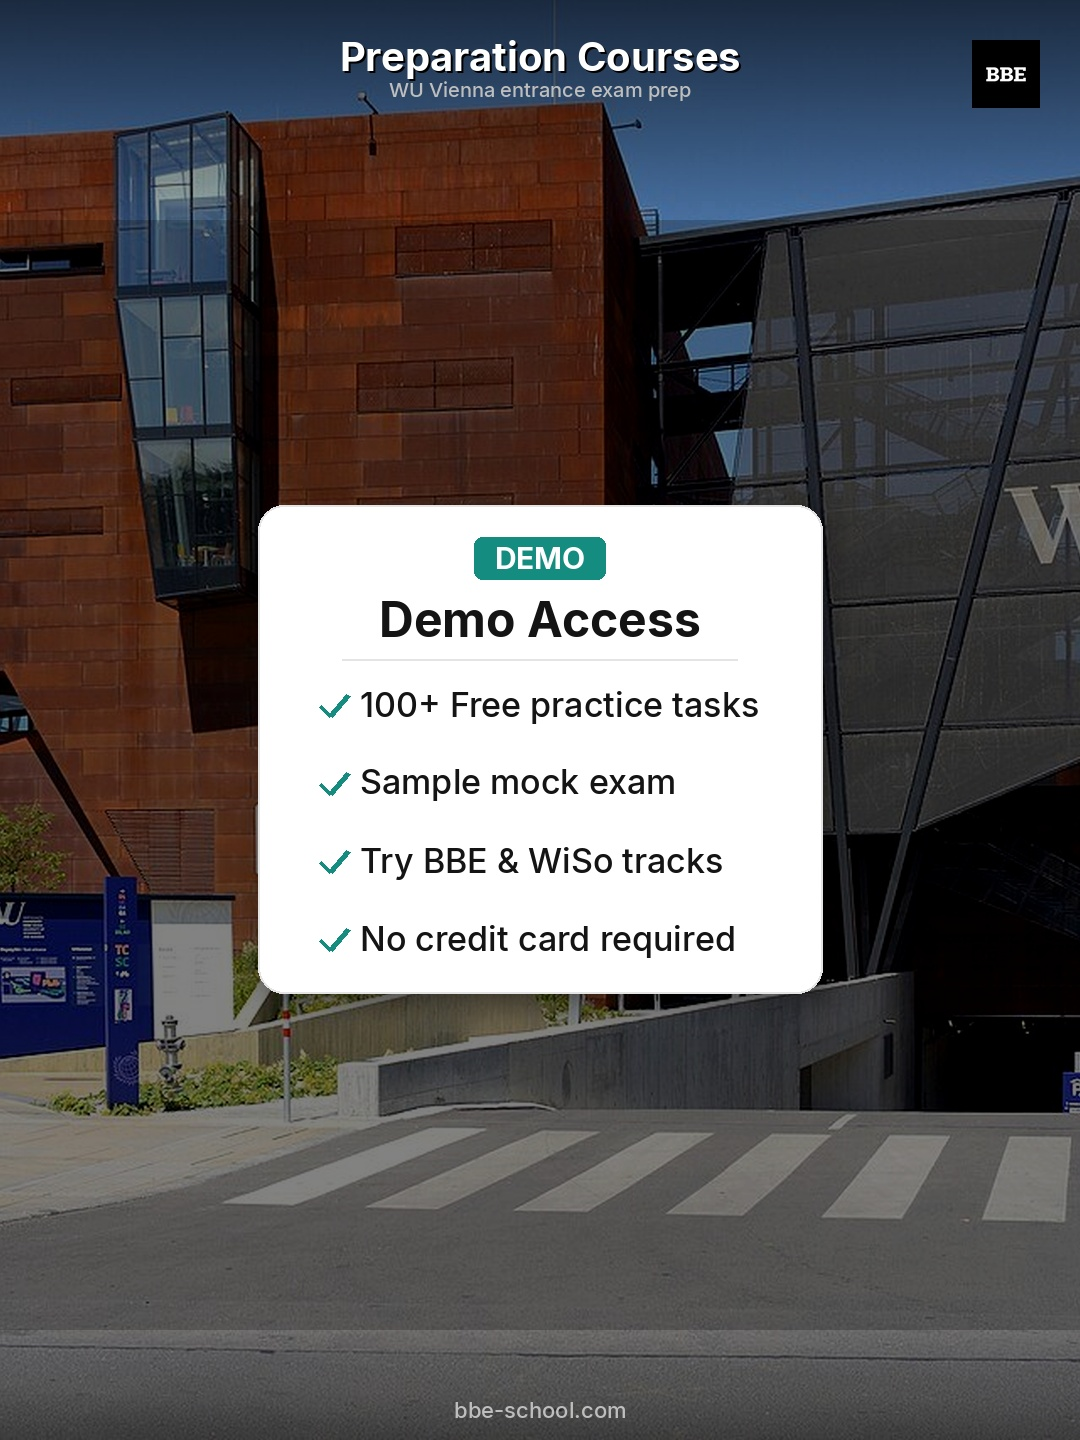
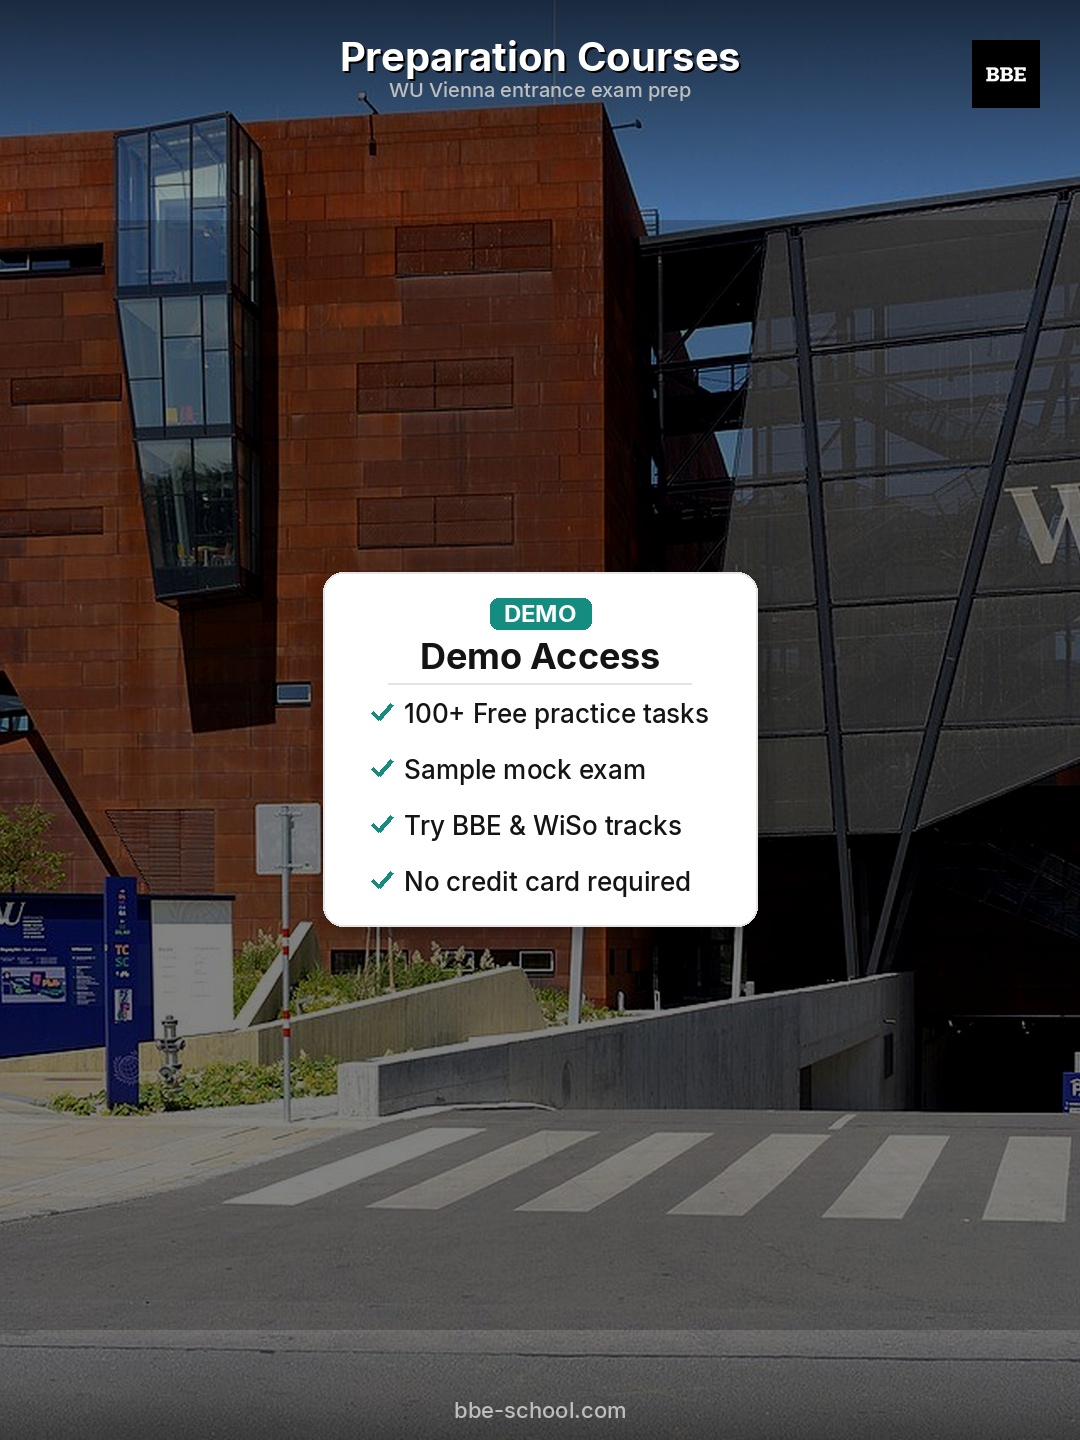
Make white cards much smaller on Instagram pins.
Cap card size and tighten type so the campus photo dominates each 3:4 tile.

Changed region(s): [[0.2139, 0.3438, 0.7639, 0.7188]]

diff --git a/scripts/build_ig_banner_v2.py b/scripts/build_ig_banner_v2.py
@@ -36,14 +36,17 @@ W = TILE * 3
 assert TILE * 4 == H * 3
 
 # Small card — campus dominates the frame
-SIDE = 160
-PAD_X = 36
-PAD_Y = 32
+SIDE = 200
+PAD_X = 28
+PAD_Y = 26
 HEADER = 130
 FOOTER = 72
 LOGO = 68
 # Equal inset from the top-right corner of each tile
 LOGO_INSET = 40
+# Hard cap so white never eats the photo
+MAX_CARD_W = 440
+MAX_CARD_H = 380
 
 ORANGE = (234, 112, 36)
 BLUE = (0, 114, 206)
@@ -146,7 +149,7 @@ def paste_logo(canvas: Image.Image, x: int, y: int, size: int = LOGO) -> None:
 
 
 def check(draw: ImageDraw.ImageDraw, x: int, y: int, color: tuple[int, int, int]) -> None:
-    draw.line([(x, y + 9), (x + 7, y + 16), (x + 20, y + 1)], fill=color, width=4)
+    draw.line([(x, y + 7), (x + 6, y + 13), (x + 16, y + 1)], fill=color, width=3)
 
 
 def content_metrics(
@@ -155,16 +158,16 @@ def content_metrics(
     title: str,
     bullets: list[str],
 ) -> dict:
-    tag_f = F("Inter-Bold.ttf", 24)
-    title_f = F("Inter-Bold.ttf", 36)
-    body_f = F("Inter-Medium.ttf", 26)
+    tag_f = F("Inter-Bold.ttf", 20)
+    title_f = F("Inter-Bold.ttf", 28)
+    body_f = F("Inter-Medium.ttf", 20)
 
-    GAP_TAG = 14
-    GAP_TITLE = 14
-    GAP_RULE = 18
-    ROW = 56
-    CHECK_W = 32
-    TAG_BX, TAG_BY = 14, 7
+    GAP_TAG = 10
+    GAP_TITLE = 10
+    GAP_RULE = 14
+    ROW = 42
+    CHECK_W = 26
+    TAG_BX, TAG_BY = 12, 6
 
     tag_x0, tag_y0, tag_x1, tag_y1 = ink_bbox(draw, tag, tag_f)
     tag_tw, tag_th = tag_x1 - tag_x0, tag_y1 - tag_y0
@@ -302,8 +305,8 @@ def build() -> Image.Image:
         max_cw = max(max_cw, m["content_w"])
         max_ch = max(max_ch, m["content_h"])
 
-    CARD_W = min(TILE - 2 * SIDE, max_cw + 2 * PAD_X)
-    CARD_H = max_ch + 2 * PAD_Y
+    CARD_W = min(TILE - 2 * SIDE, MAX_CARD_W, max_cw + 2 * PAD_X)
+    CARD_H = min(MAX_CARD_H, max_ch + 2 * PAD_Y)
     # Center card in the band between header and footer — campus visible around it
     avail_top = HEADER
     avail_bot = FOOTER
@@ -362,16 +365,16 @@ def verify(full: Image.Image) -> None:
     tile_white = (tile0[:, :, 0] > 245) & (tile0[:, :, 1] > 245) & (tile0[:, :, 2] > 245)
     white_frac = float(tile_white.mean())
     print(f"layout card={CARD_W}x{CARD_H} TOP={TOP} white_frac_in_tile={white_frac:.2f}")
-    assert CARD_H < H * 0.40, CARD_H  # small card, photo dominates
-    assert white_frac < 0.18, white_frac
+    assert CARD_H <= MAX_CARD_H and CARD_W <= MAX_CARD_W, (CARD_W, CARD_H)
+    assert white_frac < 0.12, white_frac
 
     # margins of campus around card
     top_margin = TOP
     bot_margin = H - (TOP + CARD_H)
     side_margin = (TILE - CARD_W) // 2
     print(f"campus margins T/B={top_margin}/{bot_margin} L/R={side_margin}")
-    assert top_margin >= 280 and bot_margin >= 280
-    assert side_margin >= 140
+    assert top_margin >= 350 and bot_margin >= 350
+    assert side_margin >= 200
 
     blue_mask = (
         (card_arr[:, :, 2] > 150)
